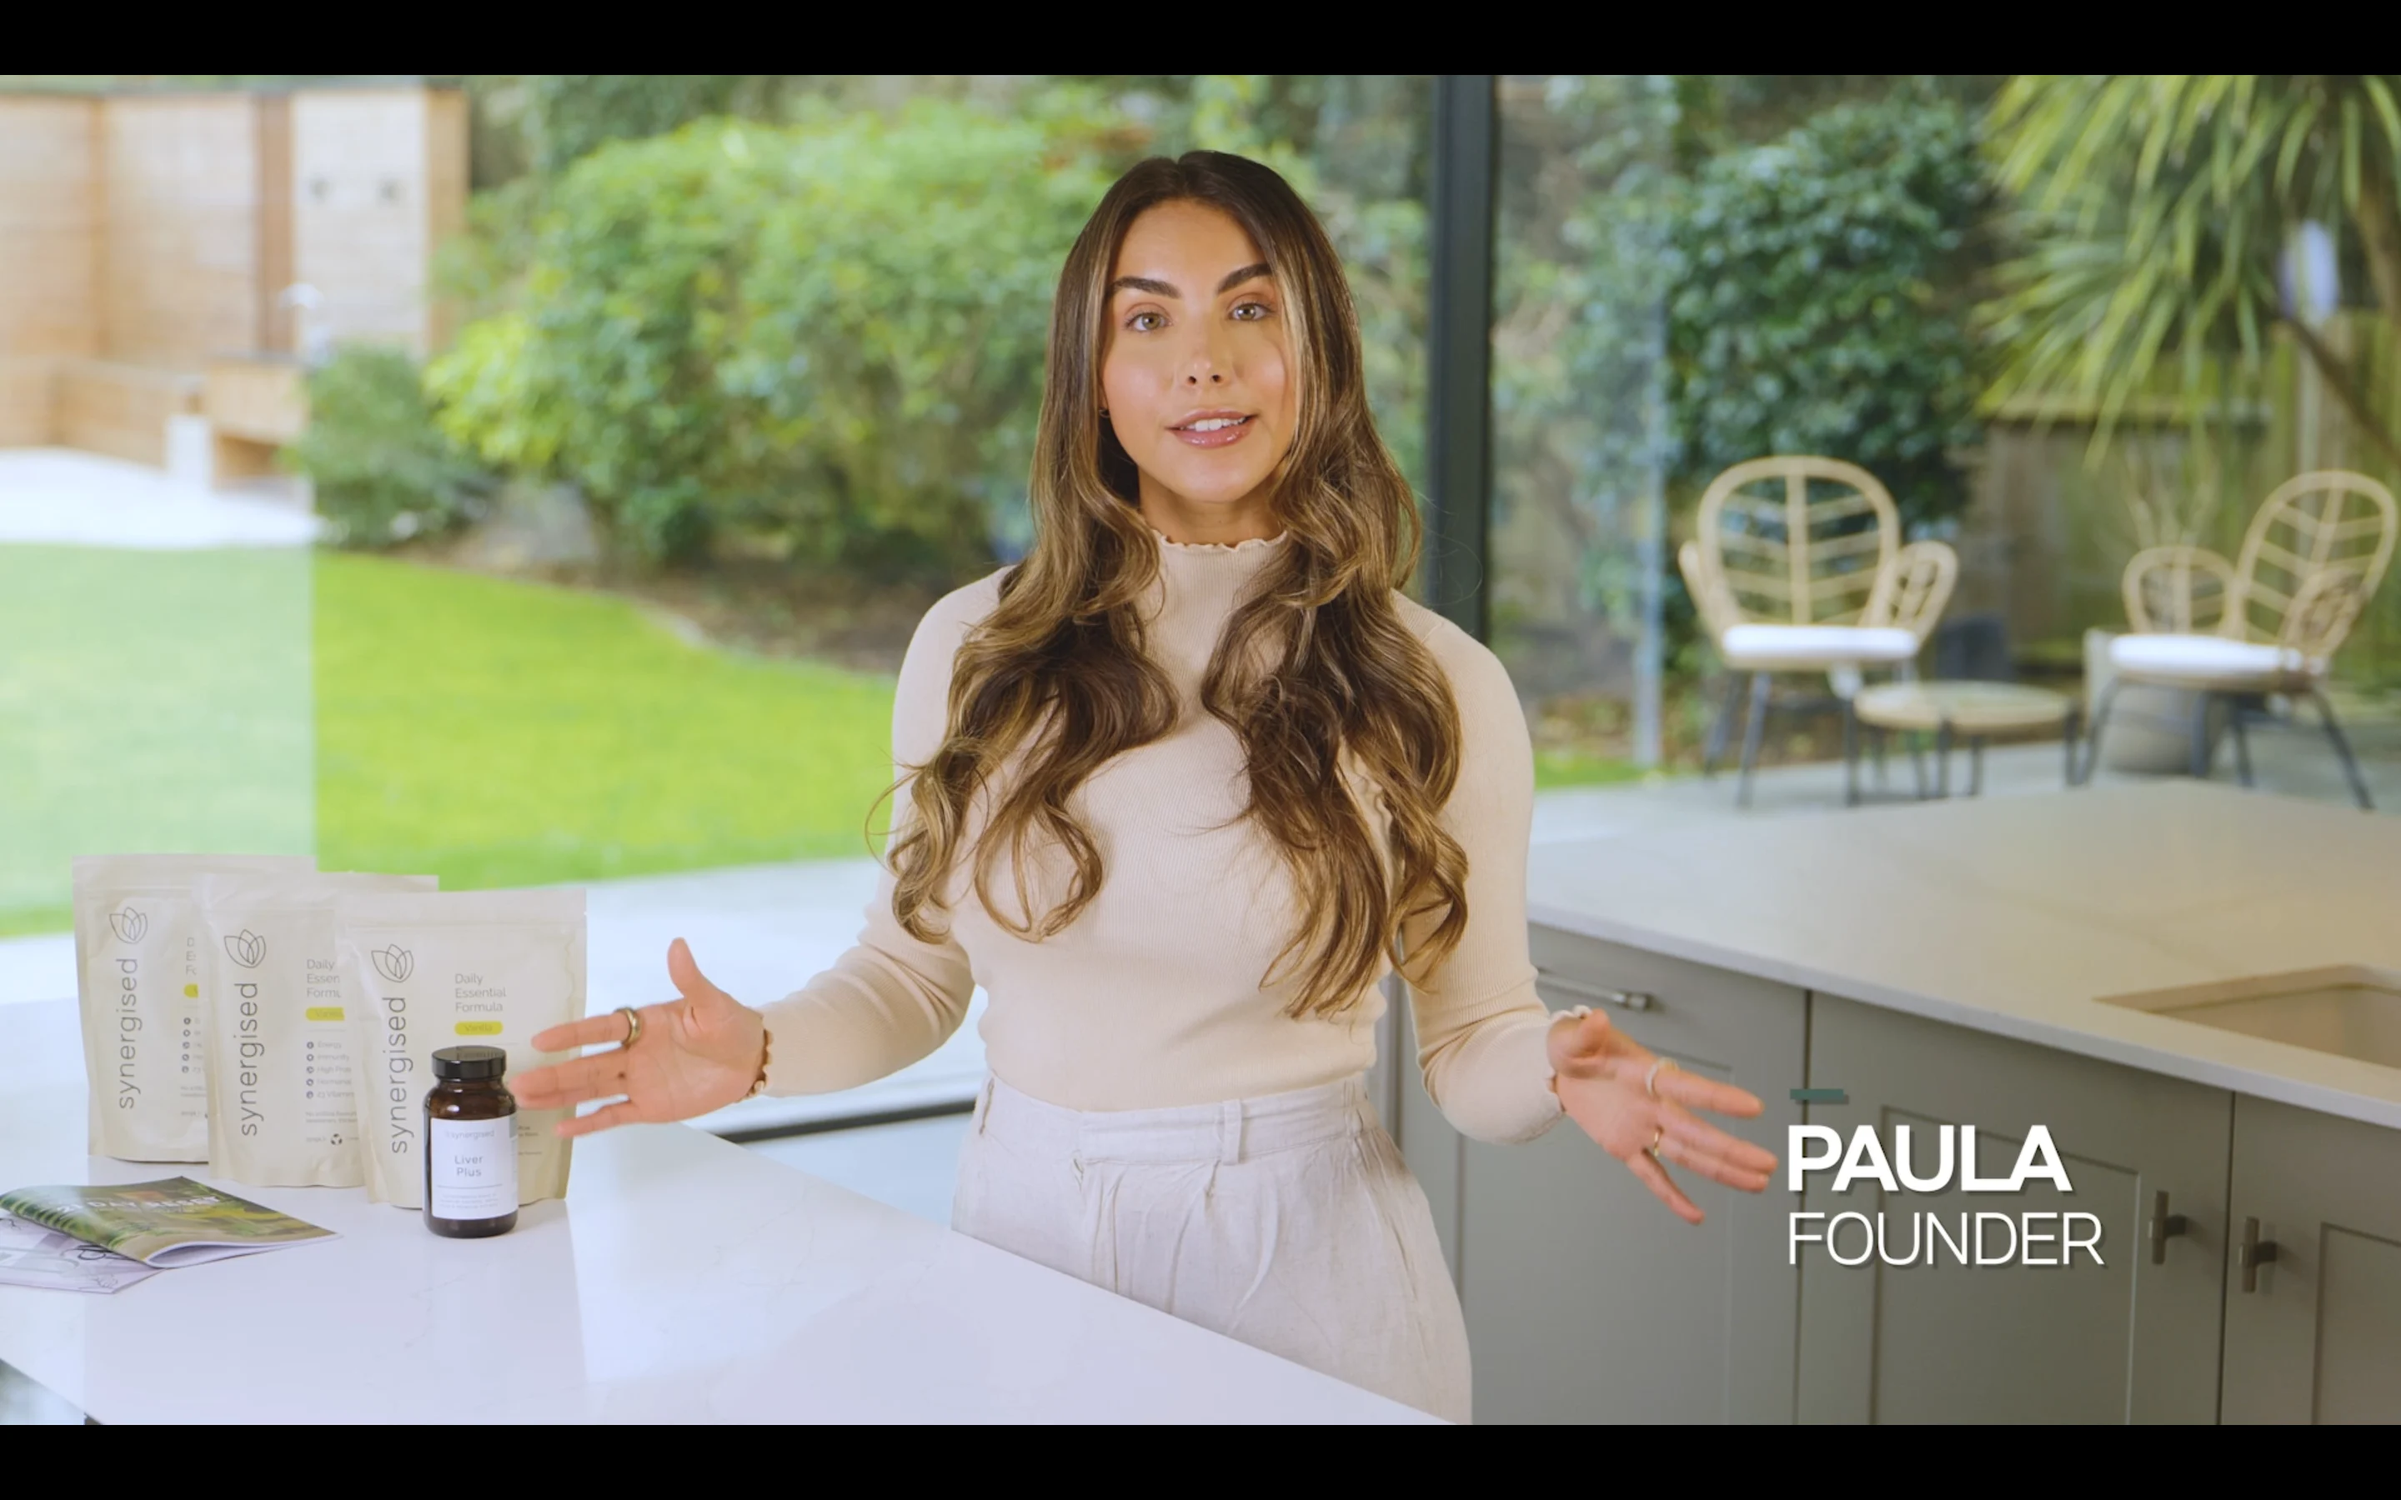
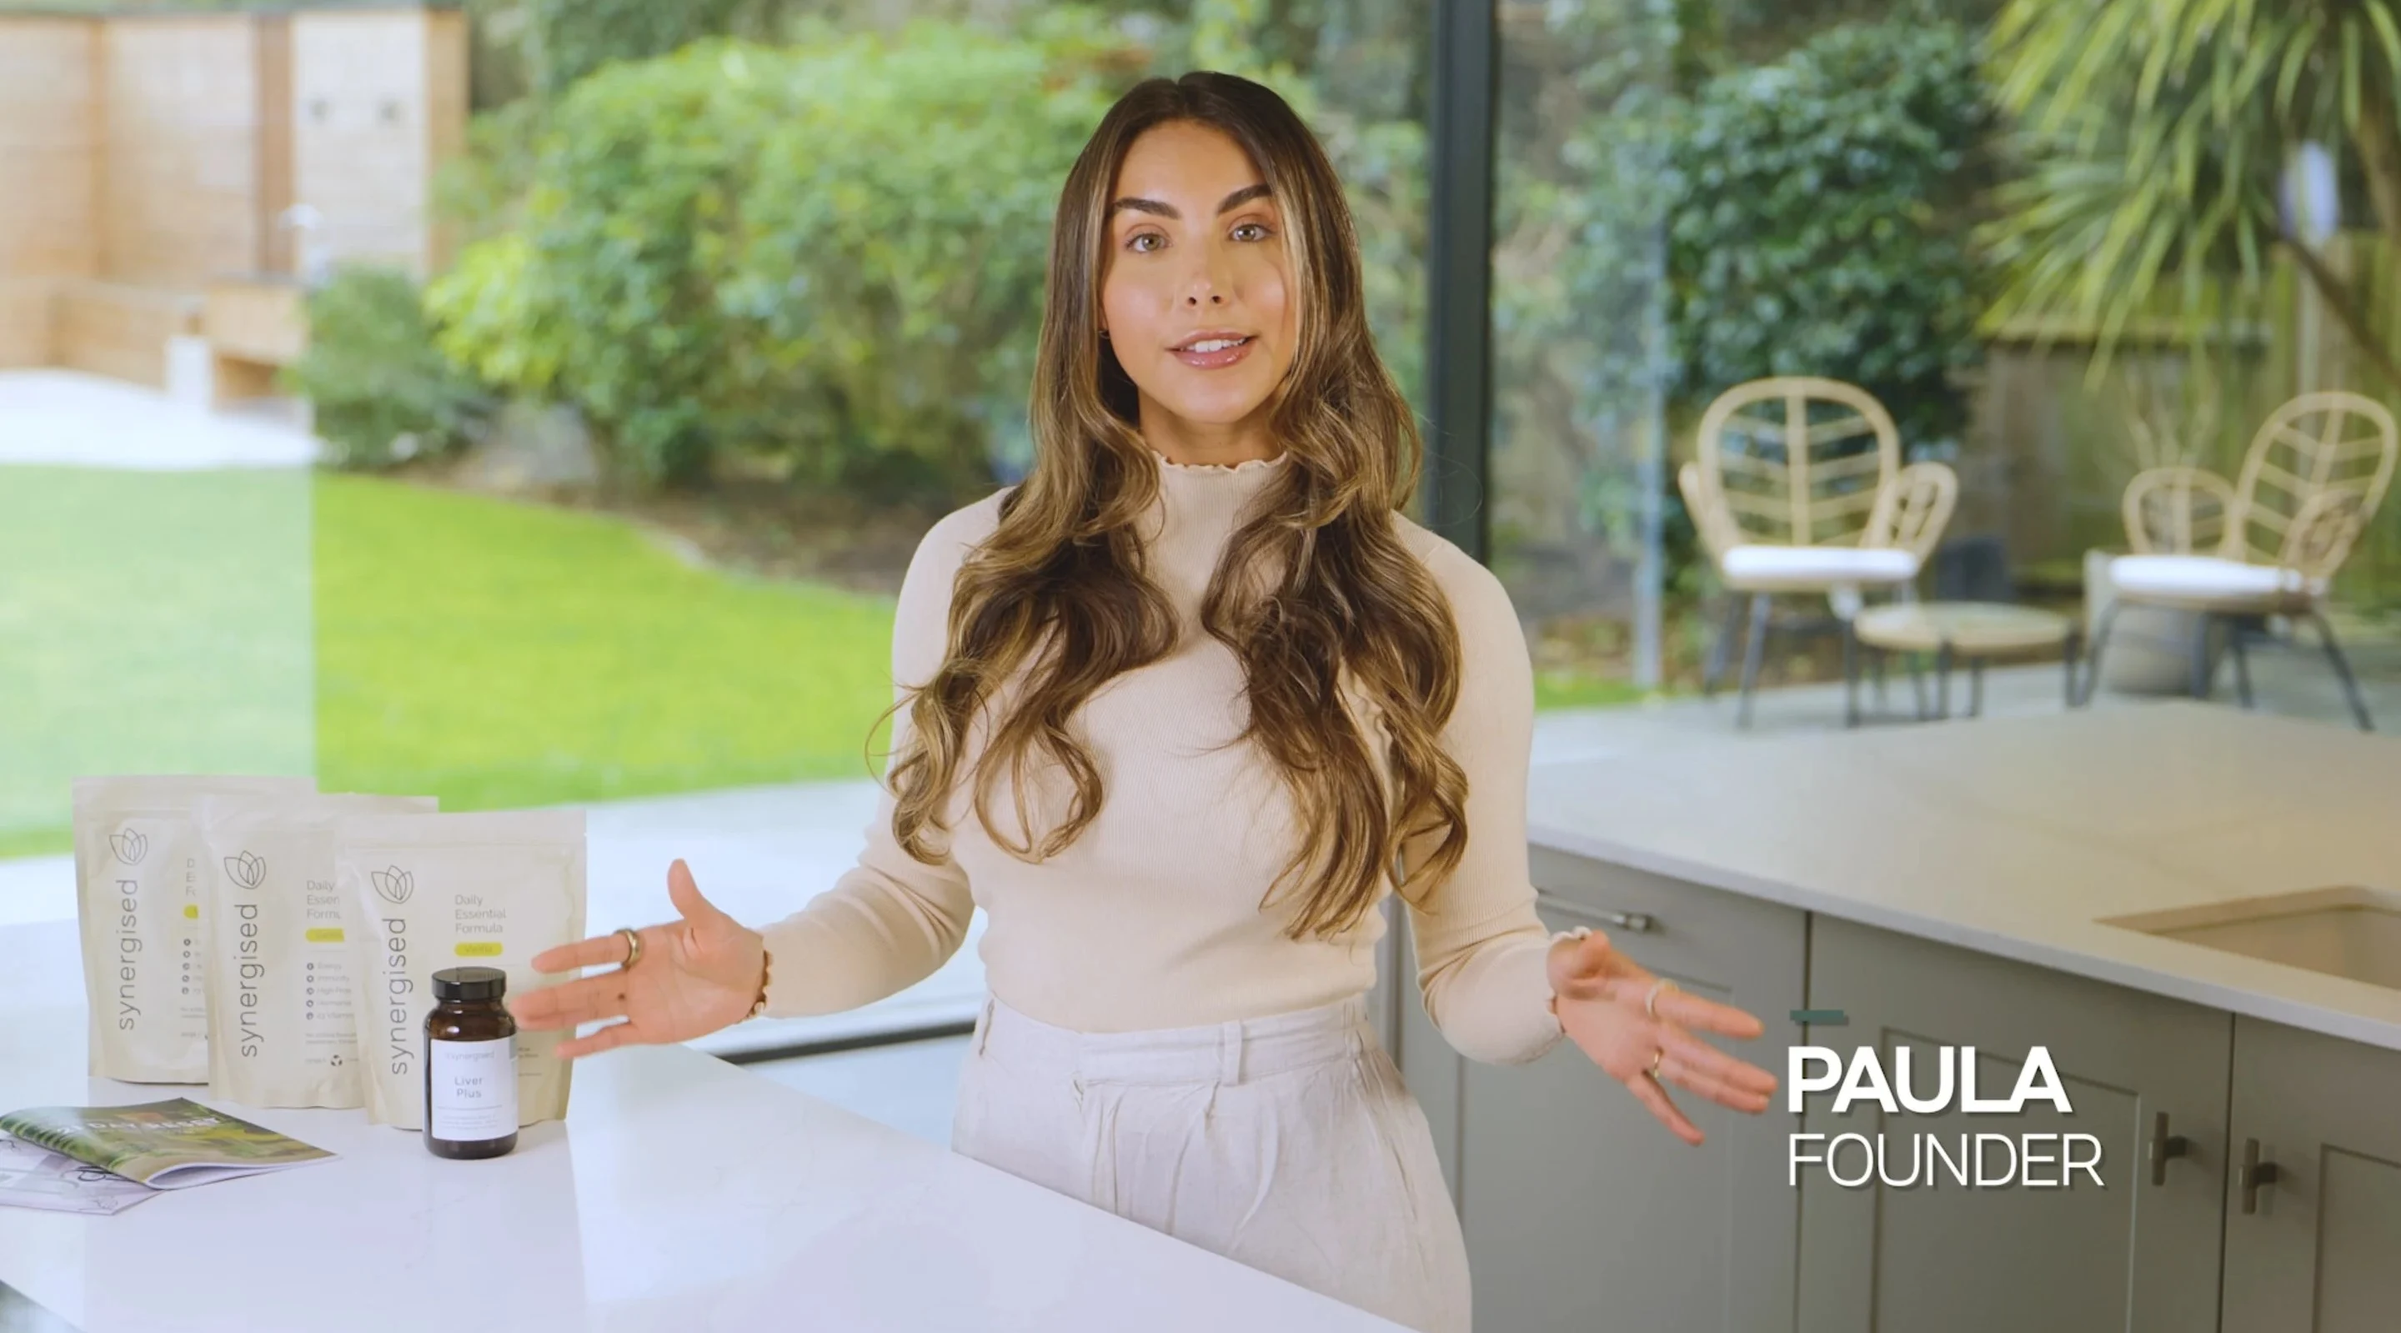
refactor: crop photo to remove extra black space + rearrange related ids

diff --git a/src/pages/blogs/data.ts b/src/pages/blogs/data.ts
@@ -156,7 +156,7 @@ export const blogs: Blog[] = [
     image: "/blogs/blog-13.webp",
     author: "Pocket Creatives",
     createdAt: "20th March 2025",
-    relatedIds: [14, 15, 16, 2, 17, 18, 19, 20],
+    relatedIds: [14, 15, 16, 17, 2, 18, 19, 20],
     content: [
       {
         type: "paragraph",
